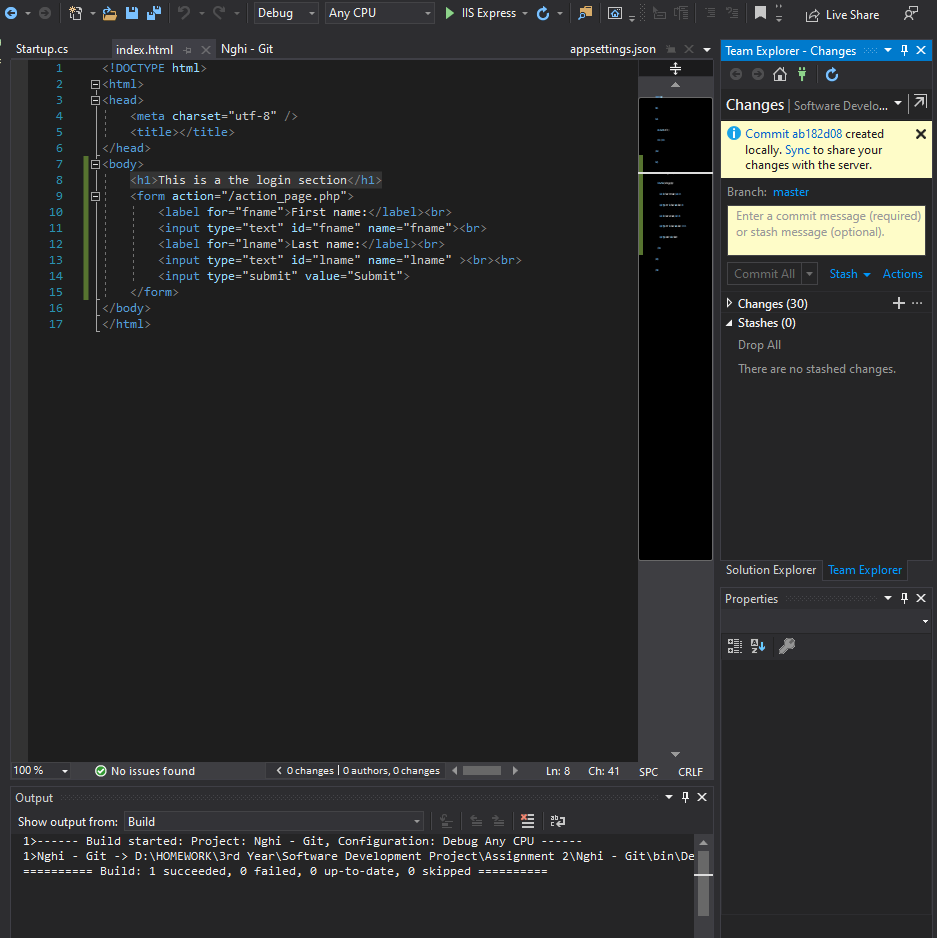
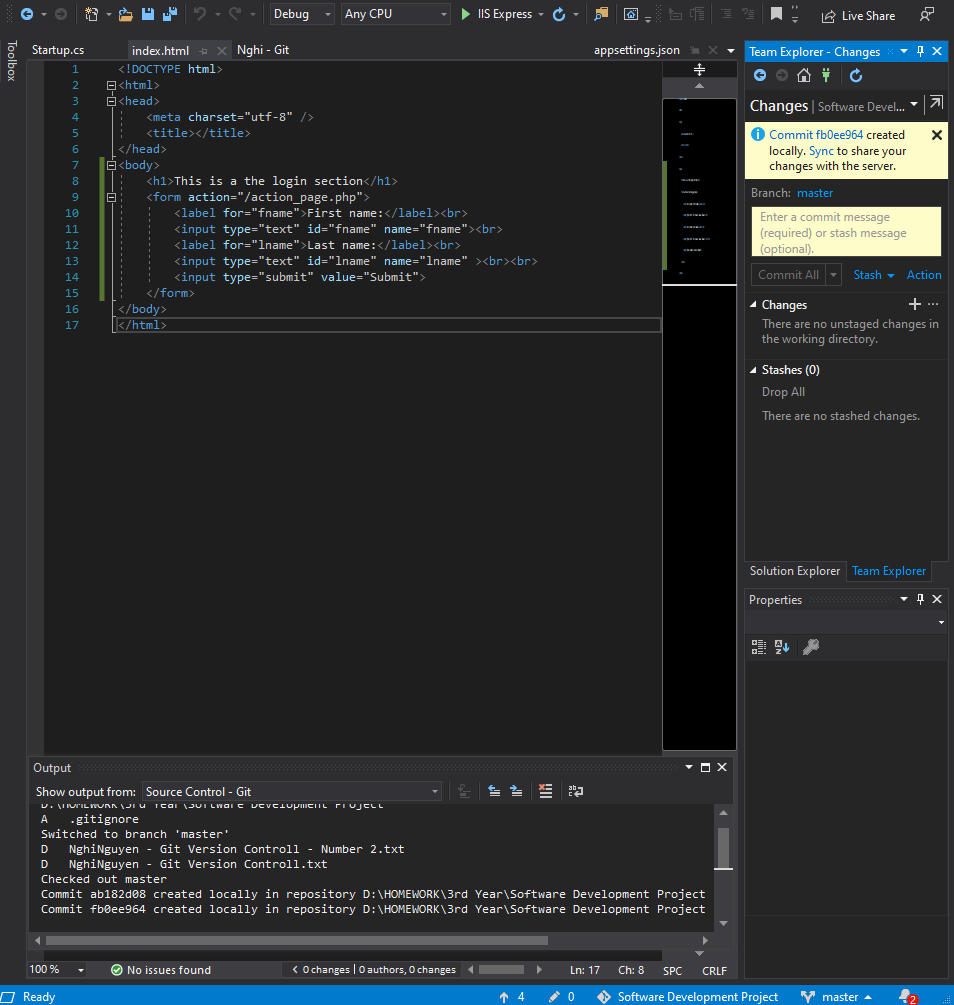
style added

Changed region(s): [[0.0, 0.0, 1.0, 1.0], [0.4642, 0.0, 0.588, 0.0309], [0.9904, 0.6493, 1.0, 0.6802]]

diff --git a/Assignment 2/Nghi - Git/wwwroot/index.html b/Assignment 2/Nghi - Git/wwwroot/index.html
@@ -3,6 +3,7 @@
 <head>
     <meta charset="utf-8" />
     <title></title>
+    <link href="Style.css" rel="stylesheet" />
 </head>
 <body>
     <h1>This is a the login section</h1>
@@ -11,7 +12,7 @@
         <input type="text" id="fname" name="fname"><br>
         <label for="lname">Last name:</label><br>
         <input type="text" id="lname" name="lname" ><br><br>
-        <input type="submit" value="Submit">
+        <input type="submit" class="button" value="Submit">
     </form>
 </body>
 </html>

diff --git a/Assignment 2/Nghi - Git/wwwroot/Style.css b/Assignment 2/Nghi - Git/wwwroot/Style.css
@@ -1,0 +1,14 @@
+body {
+    font-family: Arial, Helvetica, sans-serif;
+}
+
+.button {
+    background-color: #008CBA; /* Blue */
+    border: none;
+    color: white;
+    padding: 15px 32px;
+    text-align: center;
+    text-decoration: none;
+    display: inline-block;
+    font-size: 16px;
+}
